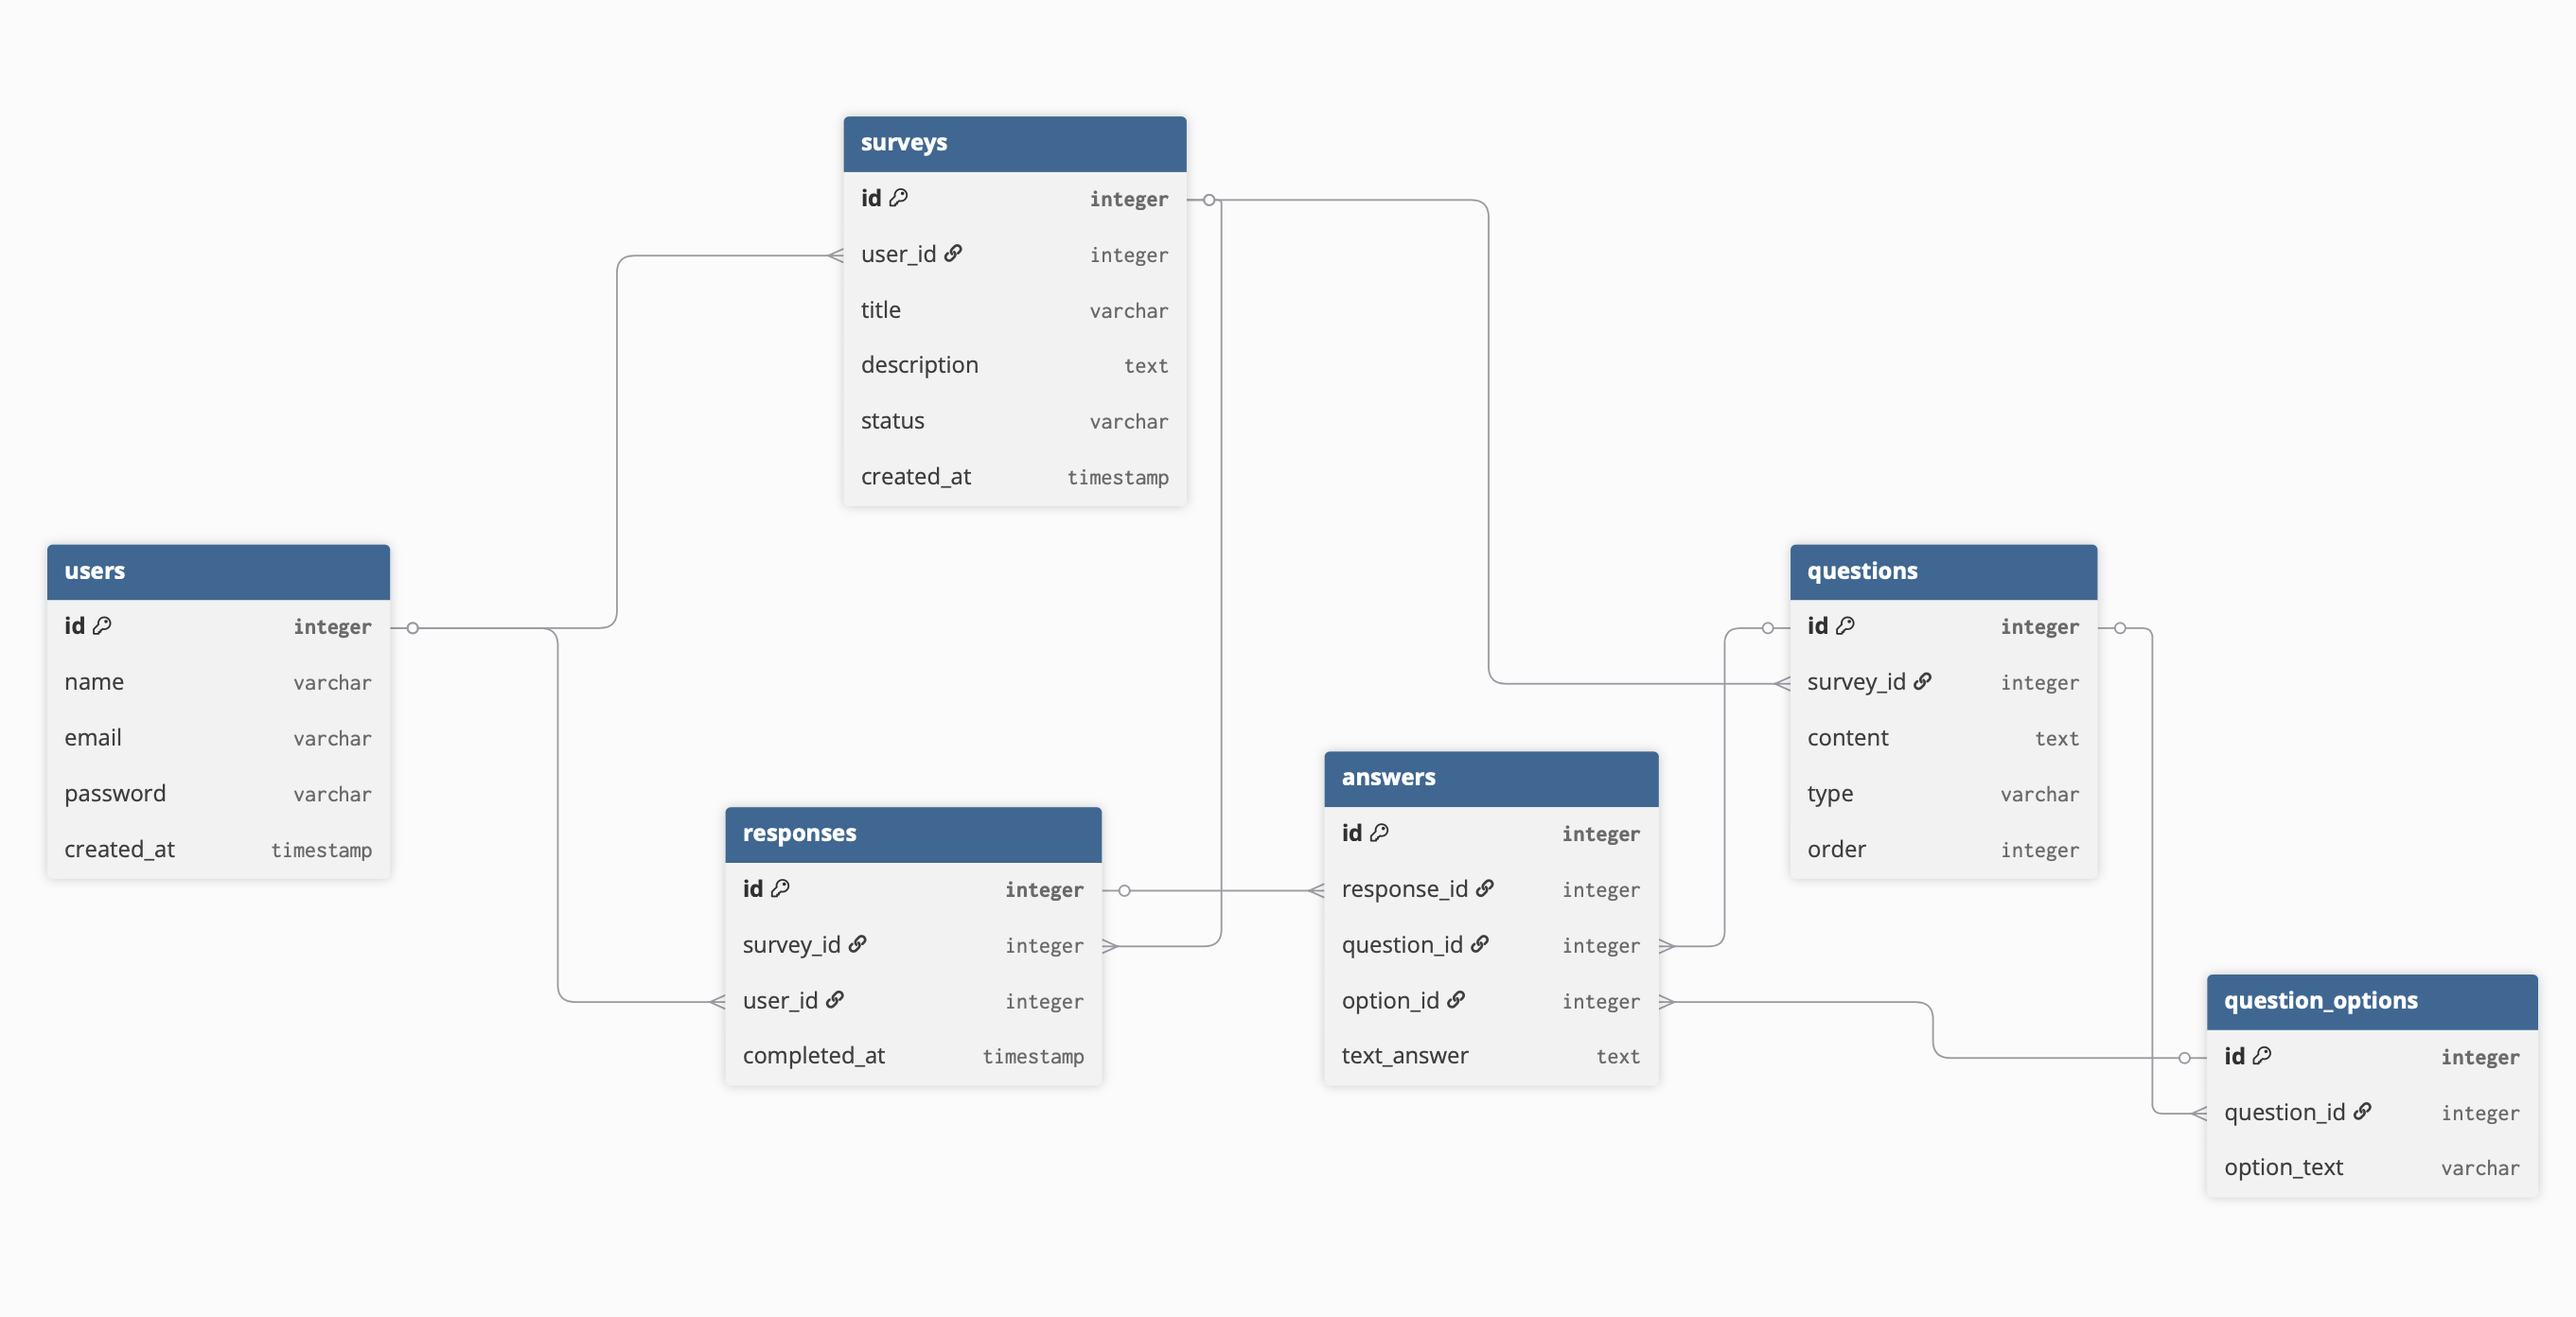
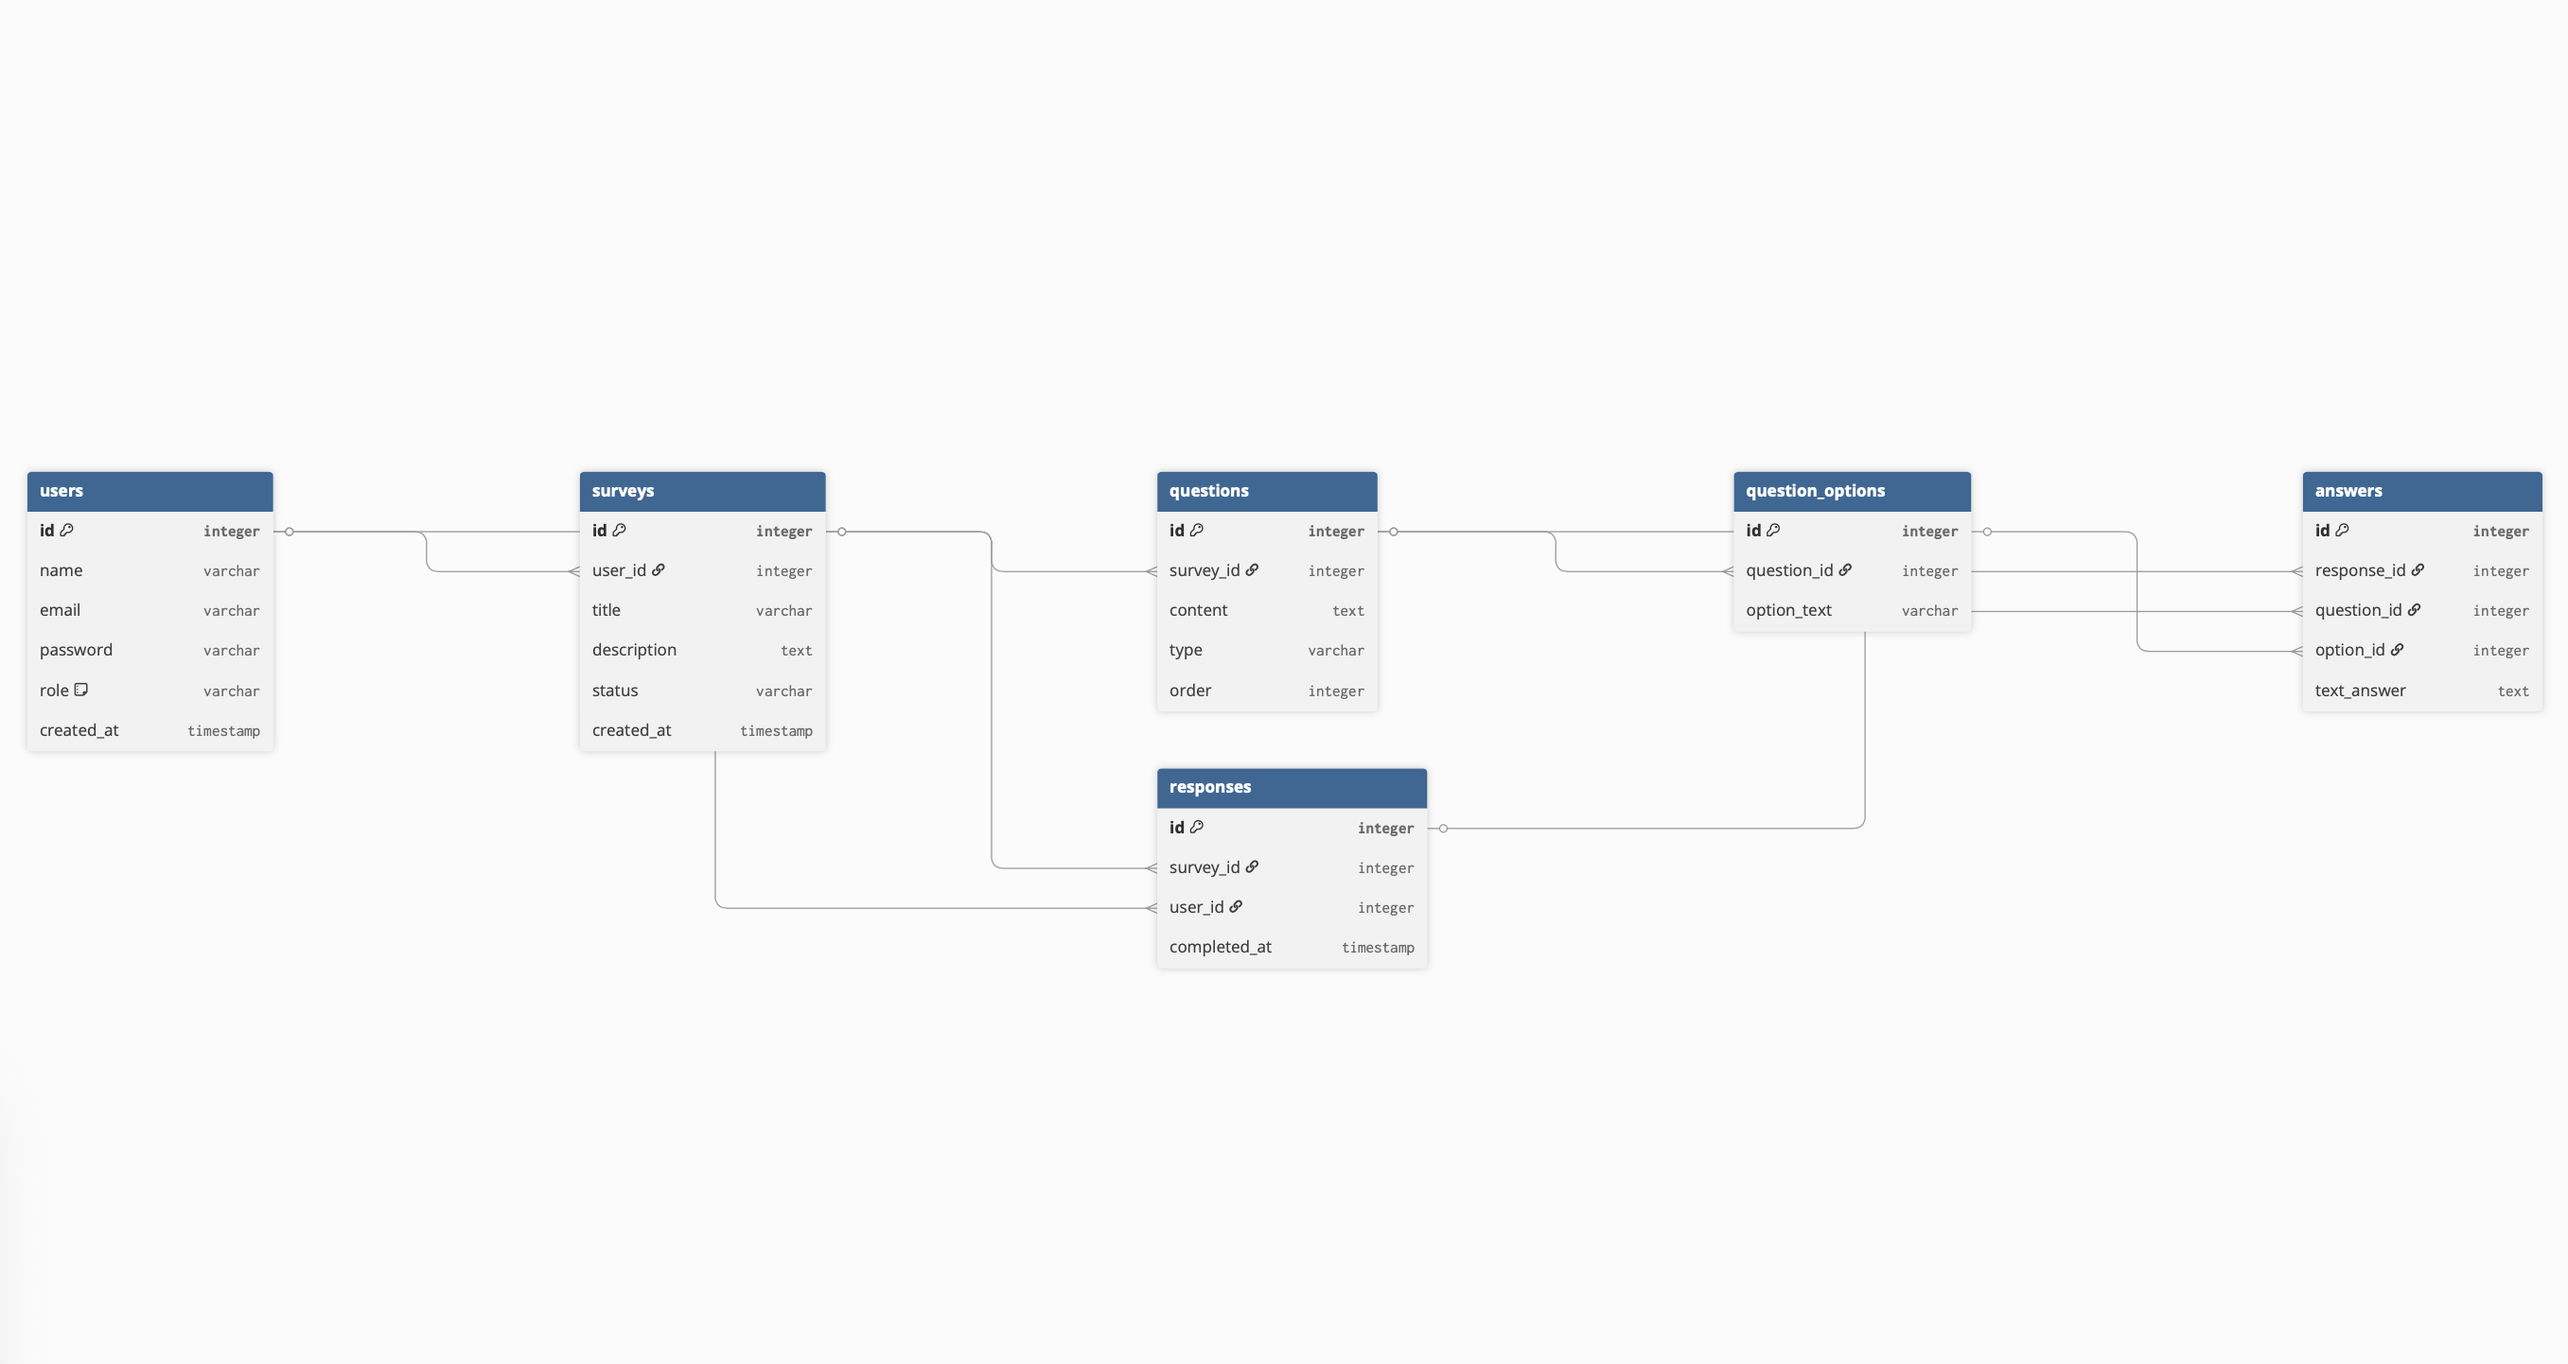
(Fix): Зафиксирован жизненный цикл опроса, добавлена строгая валидация по типу вопросов, исправлена модель пользователя, пользователь иммеет роль

diff --git a/src/app/Http/Controllers/AnswerController.php b/src/app/Http/Controllers/AnswerController.php
@@ -4,13 +4,14 @@ namespace App\Http\Controllers;
 
 use App\Models\Answer;
 use App\Models\Survey;
+use App\Models\QuestionOption;
 use Illuminate\Http\Request;
 
 class AnswerController extends Controller
 {
     public function store(Request $request, $id)
     {
-        $survey = Survey::findOrFail($id);
+        $survey = Survey::with('questions')->findOrFail($id);
 
         if ($survey->status !== 'published') {
             return response()->json(['message' => 'Этот опрос нельзя пройти сейчас'], 403);
@@ -27,9 +28,38 @@ class AnswerController extends Controller
         $request->validate([
             'answers' => 'required|array',
             'answers.*.question_id' => 'required|exists:questions,id',
-            'answers.*.option_id' => 'nullable|exists:question_options,id',
-            'answers.*.text_answer' => 'nullable|string',
         ]);
+
+        foreach ($request->answers as $item) {
+            $question = $survey->questions->find($item['question_id']);
+
+            if (!$question) {
+                return response()->json(['message' => "Вопрос ID {$item['question_id']} не принадлежит этому опросу"], 422);
+            }
+
+            if ($question->type === 'text') {
+                if (empty($item['text_answer'])) {
+                    return response()->json(['message' => "Вопрос '{$question->content}' требует текстовый ответ"], 422);
+                }
+                if (!empty($item['option_id'])) {
+                    return response()->json(['message' => "Для текстового вопроса нельзя указывать вариант (option_id)"], 422);
+                }
+            } 
+
+            if (in_array($question->type, ['radio', 'checkbox'])) {
+                if (empty($item['option_id'])) {
+                    return response()->json(['message' => "В вопросе '{$question->content}' нужно выбрать вариант"], 422);
+                }
+                
+                $optionExists = QuestionOption::where('id', $item['option_id'])
+                    ->where('question_id', $question->id)
+                    ->exists();
+                
+                if (!$optionExists) {
+                    return response()->json(['message' => "Выбранный вариант не подходит к этому вопросу"], 422);
+                }
+            }
+        }
 
         foreach ($request->answers as $item) {
             Answer::create([

diff --git a/src/app/Http/Controllers/SurveyController.php b/src/app/Http/Controllers/SurveyController.php
@@ -9,6 +9,10 @@ class SurveyController extends Controller
 {
     public function store(Request $request)
     {
+        if (!auth('api')->user()->isAdmin()) {
+            return response()->json(['message' => 'У вас нет прав администратора для создания опросов'], 403);
+        }
+
         $request->validate([
             'title' => 'required|string|max:255',
             'description' => 'nullable|string',
@@ -42,9 +46,9 @@ class SurveyController extends Controller
 
     public function changeStatus(Request $request, $id)
     {
-        $survey = \App\Models\Survey::findOrFail($id);
+        $survey = Survey::findOrFail($id);
 
-        if ($survey->user_id !== auth()->id()) {
+        if ($survey->user_id !== auth('api')->id()) {
             return response()->json(['message' => 'Вы не можете менять статус чужого опроса'], 403);
         }
 
@@ -52,7 +56,26 @@ class SurveyController extends Controller
             'status' => 'required|in:draft,published,closed'
         ]);
 
-        $survey->update(['status' => $validated['status']]);
+        $currentStatus = $survey->status;
+        $newStatus = $validated['status'];
+
+        $allowedTransitions = [
+            'draft' => ['published'],
+            'published' => ['closed'],
+            'closed' => []
+        ];
+
+        if ($currentStatus === $newStatus) {
+            return response()->json(['message' => 'Статус уже установлен', 'survey' => $survey]);
+        }
+
+        if (!isset($allowedTransitions[$currentStatus]) || !in_array($newStatus, $allowedTransitions[$currentStatus])) {
+            return response()->json([
+                'message' => "Нарушение жизненного цикла: переход из $currentStatus в $newStatus запрещен"
+            ], 422);
+        }
+
+        $survey->update(['status' => $newStatus]);
 
         return response()->json([
             'message' => 'Статус опроса успешно изменен',

diff --git a/src/database/seeders/SurveyDemoSeeder.php b/src/database/seeders/SurveyDemoSeeder.php
@@ -4,6 +4,7 @@ namespace Database\Seeders;
 
 use App\Models\User;
 use App\Models\Answer;
+use App\Models\Survey;
 use Illuminate\Database\Seeder;
 use Illuminate\Support\Facades\Hash;
 
@@ -11,11 +12,12 @@ class SurveyDemoSeeder extends Seeder
 {
     public function run(): void
     {
-        $admin = User::firstOrCreate(
+        $admin = User::updateOrCreate(
             ['email' => 'admin@starv.ru'],
             [
                 'name' => 'Vadim Starostin',
                 'password' => Hash::make('password123'),
+                'role' => 'admin',
             ]
         );
 
@@ -59,11 +61,13 @@ class SurveyDemoSeeder extends Seeder
         ];
 
         foreach ($fakeUsers as $userData) {
-            $user = User::create([
-                'name' => $userData['name'],
-                'email' => $userData['email'],
-                'password' => Hash::make('password'),
-            ]);
+            $user = User::updateOrCreate(
+                ['email' => $userData['email']],
+                [
+                    'name' => $userData['name'],
+                    'password' => Hash::make('password'),
+                ]
+            );
 
             Answer::create([
                 'user_id' => $user->id,

diff --git a/src/app/Models/User.php b/src/app/Models/User.php
@@ -2,36 +2,31 @@
 
 namespace App\Models;
 
-// use Illuminate\Contracts\Auth\MustVerifyEmail;
 use Illuminate\Database\Eloquent\Factories\HasFactory;
 use Illuminate\Foundation\Auth\User as Authenticatable;
 use Illuminate\Notifications\Notifiable;
+use Tymon\JWTAuth\Contracts\JWTSubject;
 
-class User extends Authenticatable implements \Tymon\JWTAuth\Contracts\JWTSubject
+class User extends Authenticatable implements JWTSubject
 {
-    /** @use HasFactory<\Database\Factories\UserFactory> */
     use HasFactory, Notifiable;
 
-    /**
-     * The attributes that are mass assignable.
-     *
-     * @var list<string>
-     */
     protected $fillable = [
         'name',
         'email',
         'password',
+        'role',
     ];
 
-    /**
-     * The attributes that should be hidden for serialization.
-     *
-     * @var list<string>
-     */
     protected $hidden = [
         'password',
         'remember_token',
     ];
+
+    public function isAdmin()
+    {
+        return $this->role === 'admin';
+    }
 
     public function getJWTIdentifier()
     {

diff --git a/src/database/migrations/0001_01_01_000000_create_users_table.php b/src/database/migrations/0001_01_01_000000_create_users_table.php
@@ -6,9 +6,6 @@ use Illuminate\Support\Facades\Schema;
 
 return new class extends Migration
 {
-    /**
-     * Run the migrations.
-     */
     public function up(): void
     {
         Schema::create('users', function (Blueprint $table) {
@@ -16,14 +13,11 @@ return new class extends Migration
             $table->string('name');
             $table->string('email')->unique();
             $table->string('password');
+            $table->string('role')->default('respondent');
             $table->timestamps();
         });
-
     }
 
-    /**
-     * Reverse the migrations.
-     */
     public function down(): void
     {
         Schema::dropIfExists('users');

diff --git a/src/database/seeders/DatabaseSeeder.php b/src/database/seeders/DatabaseSeeder.php
@@ -1,0 +1,15 @@
+<?php
+
+namespace Database\Seeders;
+
+use Illuminate\Database\Seeder;
+
+class DatabaseSeeder extends Seeder
+{
+    public function run(): void
+    {
+        $this->call([
+            SurveyDemoSeeder::class,
+        ]);
+    }
+}

diff --git a/README.md b/README.md
@@ -70,6 +70,7 @@ Table users {
   name varchar
   email varchar
   password varchar
+  role varchar [default: 'user']
   created_at timestamp
 }
 
